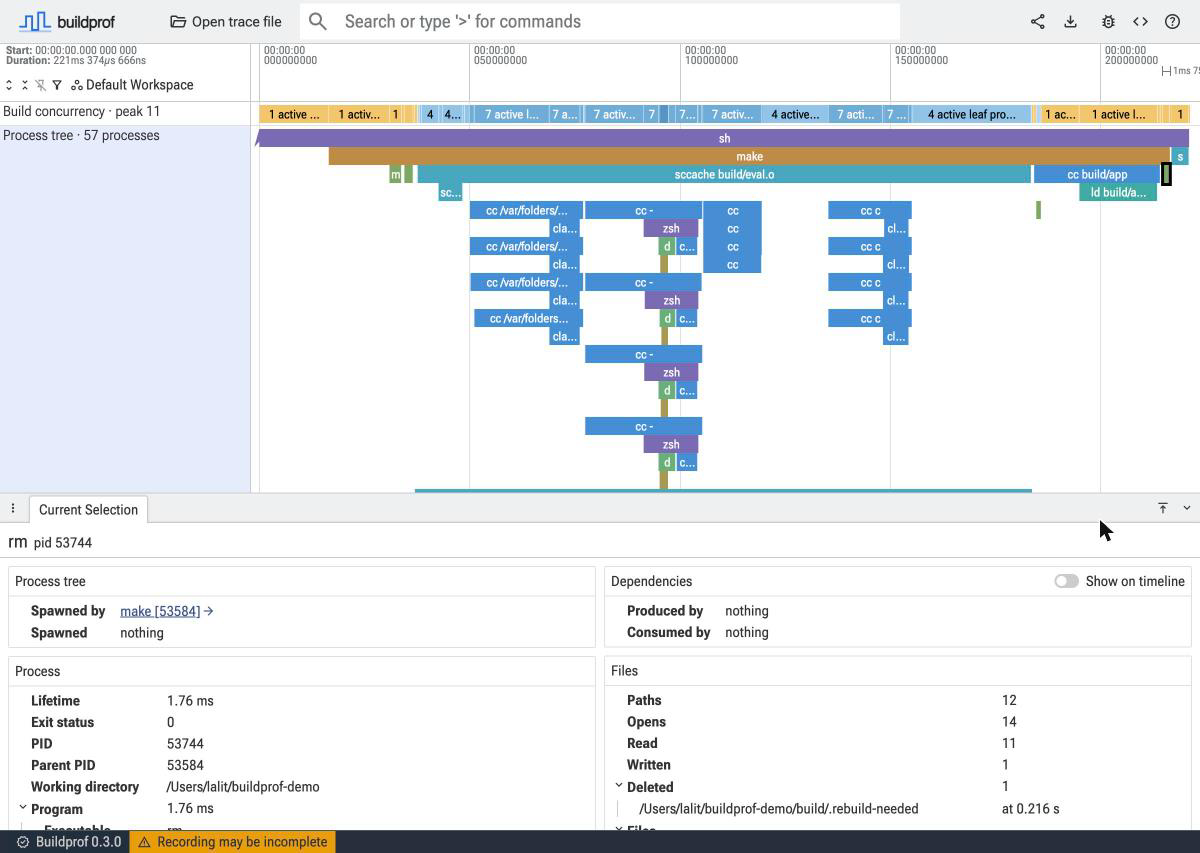
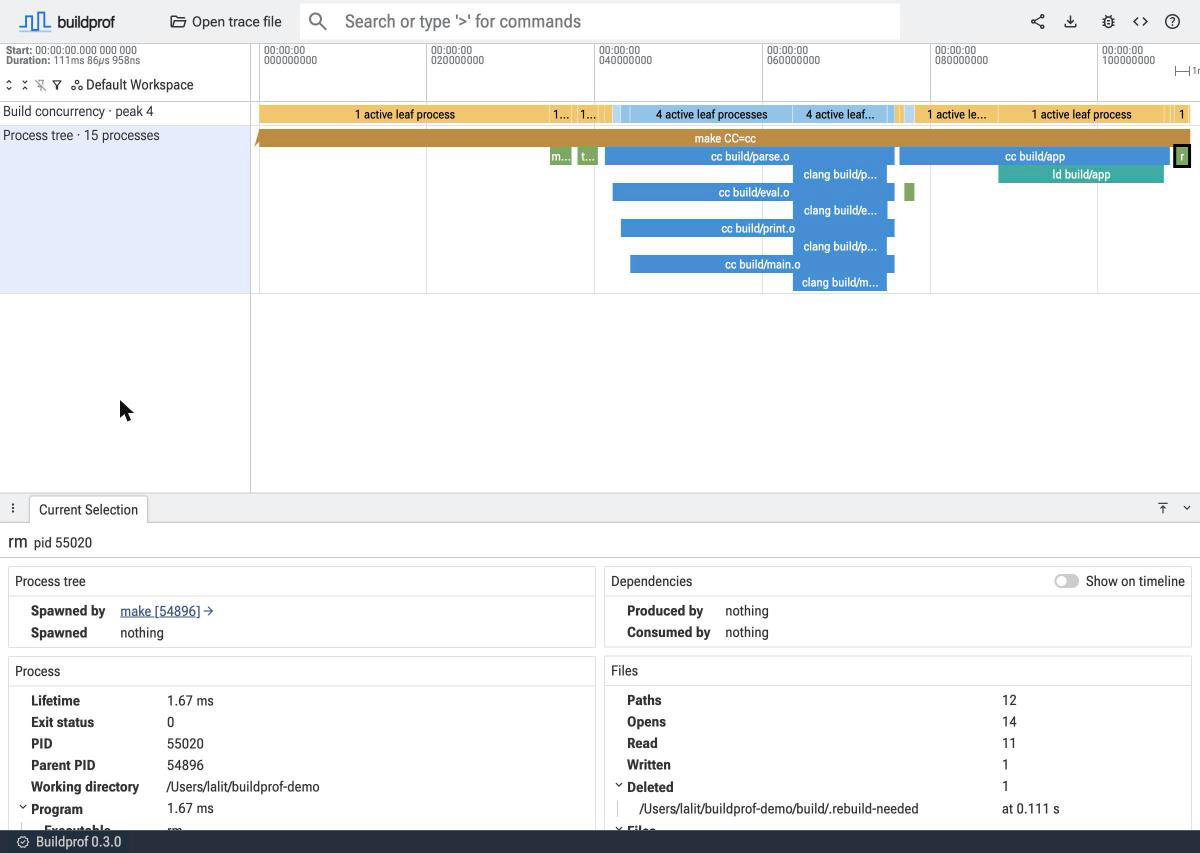
changelog: screenshot each new UI feature from its own recording

diff --git a/CHANGELOG.md b/CHANGELOG.md
@@ -66,6 +66,8 @@ or Bazel daemon, the UI status bar now shows "Recording may be incomplete".
 The [data loss page](https://github.com/LalitMaganti/buildprof/blob/main/docs/data-loss.md#work-done-outside-the-build) explains
 each case.
 
+![The status bar's "Recording may be incomplete" warning opened, saying sccache ran during the build and handed work to a server Buildprof does not record](https://raw.githubusercontent.com/LalitMaganti/buildprof/main/docs/assets/incomplete-recording.png)
+
 ### Other changes
 
 - `--compiler-traces` keeps a compile's own `-ftime-trace` output, and no
